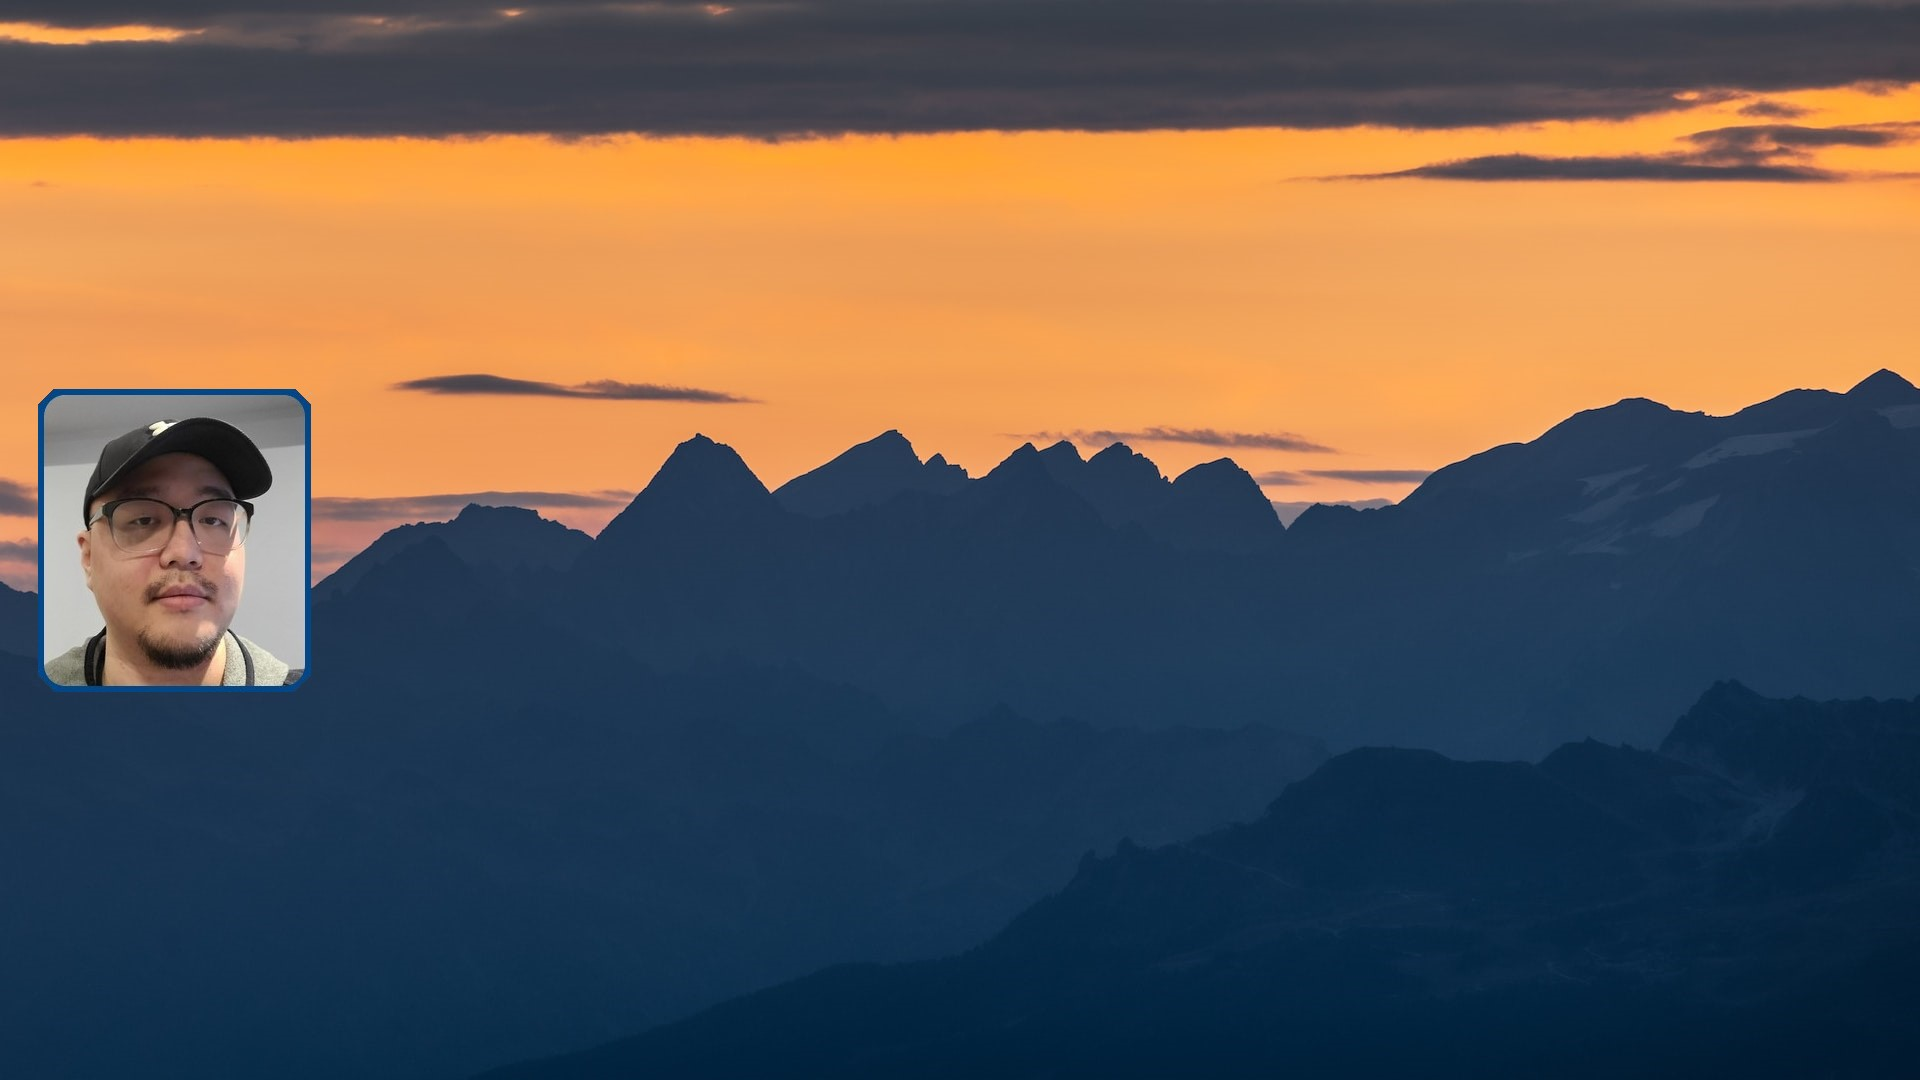
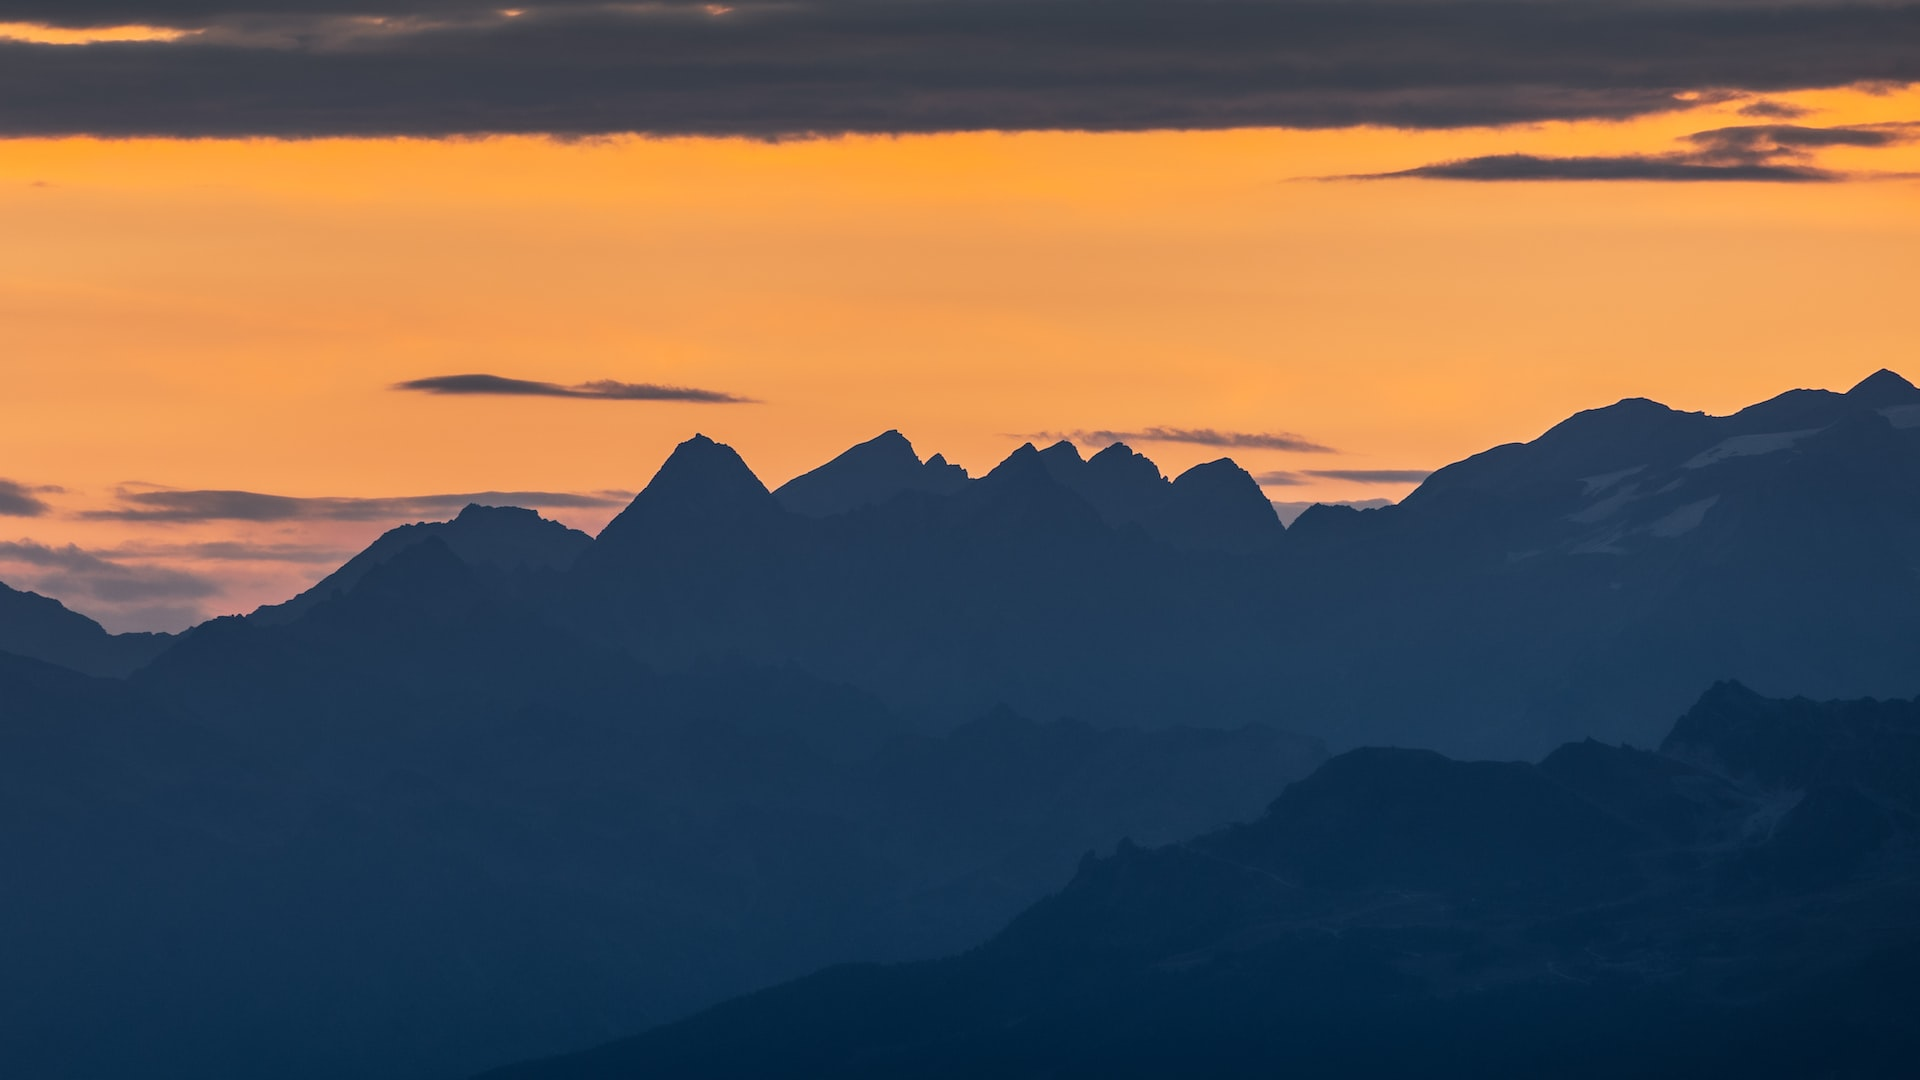
Completely rewrite of CSS and HTML to incorporate media queries. The top half of the webpage has been converted. Lower half will be assimilated soon.

Changed region(s): [[0.0, 0.3361, 0.1875, 0.6417]]

diff --git a/assets/css/style.css b/assets/css/style.css
@@ -1,12 +1,12 @@
 :root {
     --dark-colour: #044887;
     --light-colour: #087deb;
+    --bright-colour: #f0f8ff;
+    --black-colour: #000000;
 }
 
 body {
-    display: flex;
-    flex-direction: column;
-    line-height: 1.3;
+    margin: 0 auto;
 }
 
 .top-bar {
@@ -19,7 +19,7 @@ body {
 .top-bar h1 {
     padding-left: 30px;
     padding-right: 10px;
-    margin-top: 25px;
+    margin-top: 10px;
     margin-bottom: 25px;
     font-size: 56px;
     background: var(--light-colour);
@@ -32,72 +32,143 @@ body {
     font-size: 32px;
 }
 
-.top-bar a {
-    color: aliceblue;
+a {
+    color: var(--bright-colour);
 }
 
-.top-bar nav ul li {
-    padding: 15px;
-    display: inline;
+ul {
+    width: 100%;
+    display: flex;
     list-style: none;
-    font-family: 'Gill Sans', 'Gill Sans MT', Calibri, 'Trebuchet MS', sans-serif;
-    font-size: 32px;
+    justify-content: flex-end;
+}
+
+li {
+    padding: 15px;
+    list-style: none;
 }
 
 figure {
     display: flex;
     height: 350px;
     width: 100%;
-    margin-bottom: 25px;
     align-items: flex-end;
     justify-content: flex-end;
     background-color: aquamarine;
     background-image: url("../images/background-image-(marek-piwnicki).jpg");
-    background-size: cover;
+    background-size: fill;
     background-position: center;
     background-repeat: no-repeat;
+}
+
+figure img {
+    margin: 80px -255px;
+    display: flex;
+    border-style: solid;
+    border-color: var(--black-colour);
+    border-width: 5px;
+    border-radius: 25px;
 }
 
 figure figcaption{
     margin: 10px;
     height: 50px;
-    width: 10%;
+    width: 200px auto;
     display: flex;
     align-items: center;
     justify-content: center;
     border-style: solid;
     border-radius: 25px;
     background: var(--light-colour);
-    font-size: 30px;
-}
-
-main {
-    display: flex;
-    flex-wrap: wrap;
+    font-size: 44px;
 }
 
 .about-me-content {
-    margin-left: 2%;
-    width: 100%;
-    height: 25%;
+    margin: 0 auto;
     display: flex;
     align-items: center;
+    justify-content: center;
 }
 
 .about-me-content .about-h2 {
     padding: 15px;
-    margin-left: 25px;
+    margin: auto;
     display: flex;
-    border-right: 3px solid #044887;
     line-height: 150px;
     font-size: 56px;
 }
 
 .about-details {
     padding: 15px;
-    margin: 2%;
+    margin: 20px auto;
     font-family: 'Gill Sans', 'Gill Sans MT', Calibri, 'Trebuchet MS', sans-serif;
-    width: 75%;
+    width: 80%;
+}
+
+@media screen and (min-width: 981px) {
+    .about-h2 {
+        border-right: 3px solid #044887;;
+    }
+}
+
+@media screen and (max-width:980px) {
+    .top-bar,
+    figure,
+    figcaption {
+        width: 100%;
+        flex-direction: column;
+    }
+
+    figure img{
+        margin: 25px auto;
+    }
+    
+    .about-me-content {
+        flex-direction: column;
+    }
+
+    .about-h2 {
+        border-right: 0;
+        text-decoration: underline;
+    }
+
+    .about-details {
+        border-bottom: 3px solid #044887;
+        width: 100%;
+        flex-direction: column;
+    }
+}
+
+@media screen and (max-width:768px) {
+    .top-bar,
+    figure,
+    figcaption {
+        width: 100%;
+        flex-direction: column;
+    }
+}
+
+@media screen and (max-width:575px) {
+    .top-bar,
+    figure,
+    figcaption {
+        width: 100%;
+        flex-direction: column;
+    }
+}
+
+
+/*
+980px
+768px
+575px
+*\
+
+/*
+
+main {
+    display: flex;
+    flex-wrap: wrap;
 }
 
 .work-content {
@@ -126,14 +197,14 @@ main {
     margin-top: 25%;
     padding-left: 1%;
     position: relative;
-    bottom: 90%;
+    bottom: 99%;
     right: 2px;
     width: 15%;
     display: flex;
     flex-wrap: wrap;
     align-items: flex-start;
     background: var(--dark-colour);
-    z-index: 0;
+    z-index: 1;
 }
 
 .card-title {
@@ -141,11 +212,11 @@ main {
     padding-left: 2%;
     position: relative;
     bottom: 65%;
-    width: 32%;
+    width: 30%;
     display: flex;
     flex-wrap: wrap;
     background: var(--dark-colour);
-    z-index: 0;
+    z-index: 1;
 }
 
 .card-title a {
@@ -175,10 +246,15 @@ main {
     flex-wrap: wrap;
     flex-direction: column;
     text-align: center;
+    background-color: #044887;
     border-style: solid;
     border-color: #044887;
     border-width: 5px;
     border-radius: 25px;
+}
+
+.big-work-card a{
+    z-index: 1;
 }
 
 .big-work-card h2 {
@@ -191,10 +267,15 @@ main {
     width: 44%;
     height: 200px;
     text-align: center;
+    background-color: #044887;
     border-style: solid;
     border-color: #044887;
     border-width: 5px;
     border-radius: 25px;
+}
+
+.work-card a {
+    z-index: 1;
 }
 
 .big-work-card img {
@@ -202,6 +283,9 @@ main {
     height: 100%;
     object-fit: cover;
     z-index: -1;
+    border-radius: 16px;
+    opacity: 0.5;
+    transition: 0.5s;
 }
 
 .work-card img {
@@ -209,6 +293,13 @@ main {
     height: 100%;
     object-fit: cover;
     z-index: -1;
+    border-radius: 16px;
+    opacity: 0.5;
+    transition: 0.5s;
+}
+
+.card-boxes img:hover {
+    opacity: 1.0;
 }
 
 .contact-content {
@@ -241,3 +332,5 @@ main {
 .contact-content a {
     color: black;
 }
+
+*\

diff --git a/index.html b/index.html
@@ -24,6 +24,7 @@
 
     <main>
         <figure>
+            <img src="./assets/images/profile-avatar.jpg" alt="Jung In's Profile Image" />
             <figcaption>
                 <p>A Chef Coder!</p>
             </figcaption>
@@ -44,13 +45,11 @@
         </summary>
         
         <section id="work", class="work-content">
-            <h2 class="work-h2">
-                Work
-            </h2>
+            <h2 class="work-h2">Work</h2>
 
             <article class="card-boxes">
                 <div class="big-work-card">
-                    <a href="https://www.google.ca/"><img src="./assets/images/modern-terra.png" style="border-radius: 16px" alt="" /></a>
+                    <a href="https://github.com/Heaveness/Modern-Terra"><img src="./assets/images/modern-terra.jpg" alt="Modern Terra Webpage Image" /></a>
                     <section class="big-card-title">
                         <a href="https://github.com/Heaveness/Modern-Terra"><h2>Modern Terra</a></h2>
                         <p>CSS/HTML</p>
@@ -58,7 +57,7 @@
                 </div>
 
                 <div class="work-card">
-                    <a href="https://www.google.ca/"><img src="./assets/images/codewall-(arnold-francisca).jpg" style="border-radius: 16px" alt="" /></a>
+                    <a href="https://www.google.ca/"><img src="./assets/images/codewall-(arnold-francisca).jpg" alt="Code Wall Placeholder Image" /></a>
                     <section class="card-title">
                         <a href="https://www.google.ca/"><h3>Code Wall(n/a)</a></h3>
                         <p>CSS/HTML</p>
@@ -66,7 +65,7 @@
                 </div>
 
                 <div class="work-card">
-                    <a href="https://www.google.ca/"><img src="./assets/images/calculator-(recha-oktaviani).jpg" style="border-radius: 16px" alt="" /></a>
+                    <a href="https://www.google.ca/"><img src="./assets/images/calculator-(recha-oktaviani).jpg" alt="Calculator Placeholder Image" /></a>
                     <section class="card-title">
                         <a href="https://www.google.ca/"><h4>Calculator(n/a)</a></h4>
                         <p>CSS/HTML</p>
@@ -74,7 +73,7 @@
                 </div>
 
                 <div class="work-card">
-                    <a href="https://www.google.ca/"><img src="./assets/images/keygen-(jozsef-hocza).jpg" style="border-radius: 16px" alt="" /></a>
+                    <a href="https://www.google.ca/"><img src="./assets/images/keygen-(jozsef-hocza).jpg" alt="Key Generator Placeholder Image" /></a>
                     <section class="card-title">
                         <a href="https://www.google.ca/"><h5>Key Gen(n/a)</a></h5>
                         <p>JAVASCRIPT</p>
@@ -82,9 +81,9 @@
                 </div>
 
                 <div class="work-card">
-                    <a href="https://www.google.ca/"><img src="./assets/images/picketcraft-(steve-johnson).jpg" style="border-radius: 16px" alt="" /></a>
+                    <a href="https://www.google.ca/"><img src="./assets/images/picketcraft-(steve-johnson).jpg" alt="Picketcraft Placeholder Image" /></a>
                     <section class="card-title">
-                        <a href="https://www.google.ca/"><h6>Picketcraft(n/a)</a></h6>
+                        <a href="https://www.google.ca/"><h6>PicketCraft(n/a)</a></h6>
                         <p>JAVA</p>
                     </section>
                 </div>

diff --git a/assets/css/reset.css b/assets/css/reset.css
@@ -5,11 +5,6 @@
   position: relative;
 }
 
-body {
-  min-height: 100%;
-  line-height: 1;
-}
-
 h1,
 h2,
 h3,
